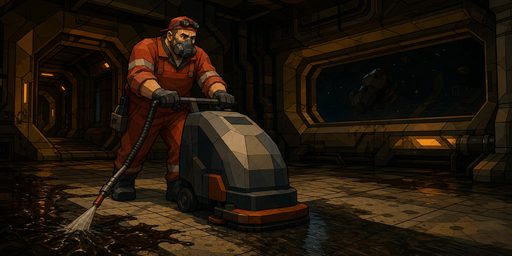
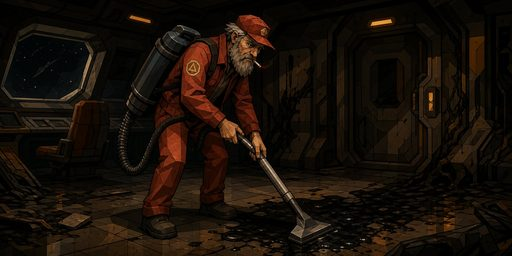
nemesis: Janitor redone — lean grey-bearded old man with backpack vacuum and cigarette (model + 10 cards)

diff --git a/nemesis/client/characters.js b/nemesis/client/characters.js
@@ -72,7 +72,7 @@ const SPECS = {
     hacker:    { legs: 'jacket', boots: 'pants', torso: 'jacket', arms: 'jacket', hands: 'pants', hood: 'hood', cowl: true, faceMask: true, cyberArms: 'pants', chestArmor: 'pants', cables: 'gear', smartGun: true, lights: 'lights', female: true, bust: 0, build: 'slim' },
     scientist: { legs: 'pants', boots: 'pants', torso: 'shirt', coat: 'coat', arms: 'coat', hands: 'skin', hair: 'shortSwept', hairZone: 'hair', goggles: 'lights', glasses: true, harness: 'shirt', tablet: true, scanner: true, beard: 'hair', wheelchair: true, build: 'slim' },
     medic:     { legs: 'pants', boots: 'pants', torso: '#5f6873', underV: true, coat: 'coat', openCoat: true, arms: 'coat', hands: 'skin', hair: 'longLoose', hairZone: 'hair', cap: 'cap', gasMask: true, syringeGun: true, redCross: 'lights', female: true, bust: 1.3, build: 'slim' },
-    janitor:   { legs: 'overall', boots: 'gloves', torso: 'overall', arms: 'overall', hands: 'gloves', hair: 'beardOnly', hairZone: 'hair', mustache: 'hair', cap: 'cap', toolBelt: true, wrench: true, patch: 'lights', build: 'stocky' },
+    janitor:   { legs: 'overall', boots: 'gloves', torso: 'overall', arms: 'overall', hands: 'gloves', hair: 'beardOnly', hairZone: 'hair', mustache: 'hair', cap: 'cap', toolBelt: true, vacuum: true, cigarette: true, patch: 'lights' },   // lean grey-bearded old man, backpack vacuum, cigarette
     ceo:       { legs: 'shirt', boots: 'coat', torso: 'shirt', robe: 'coat', arms: 'coat', hands: 'skin', hair: 'shortSwept', hairZone: 'hair', tie: 'coat', pistolR: true, robot: true, build: 'slim' },
     labrat:    { legs: 'pants', boots: 'skin', torso: 'gown', arms: 'skin', hands: 'skin', hair: 'longLoose', hairZone: 'hair', blindfold: 'bandage', implants: 'lights', gown: 'gown', qrPatch: true, barefoot: true, female: true, bust: 0, build: 'slim' },
     sentry:    { custom: 'sentry' },
@@ -268,6 +268,19 @@ export function buildCharacter(scene, charId, colors = {}) {
             else { F(FIXED.gun, cy(0.05, 0.05, 0.5, 6, g, 0.6, 0.02, 0, [0, 0, Math.PI / 2])); F(FIXED.darkSteel, bx(0.3, 0.08, 0.06, g, 0.05, 0.14, 0)); Z(LZ, bx(0.06, 0.04, 0.04, g, 0.2, 0.15, 0)); }
         }
         if (sp.pipe) { F(FIXED.steel, cy(0.05, 0.05, 1.0, 6, R, 0.42 * W, 1.5, 0.1, [0, 0, 0.15])); F(FIXED.darkSteel, bx(0.1, 0.1, 0.1, R, 0.42 * W, 1.98, 0.08)); }
+        if (sp.vacuum) {   // backpack vacuum cleaner: canister on the back, straps, hose running to a wand in the left hand
+            F(FIXED.darkSteel, cy(0.2, 0.2, 0.62, 8, R, 0, 1.78, -0.34)); F(FIXED.steel, cy(0.22, 0.22, 0.06, 8, R, 0, 2.1, -0.34)); F(FIXED.steel, cy(0.22, 0.22, 0.06, 8, R, 0, 1.46, -0.34));
+            F(FIXED.steel, bx(0.1, 0.12, 0.1, R, 0.1, 2.2, -0.34)); Z(LZ, bx(0.04, 0.04, 0.02, R, 0.1, 2.2, -0.28));   // motor cap + status light
+            for (const s of [-1, 1]) F(FIXED.strap, bx(0.06, 0.5, 0.04, R, s * 0.18 * W, 1.86, 0.17, [0.0, 0, 0]));       // shoulder straps
+            for (const [a, b] of [[[-0.12, 2.1, -0.42], [-0.42 * W, 1.9, -0.3]], [[-0.42 * W, 1.9, -0.3], [-0.46 * W, 1.4, 0.0]], [[-0.46 * W, 1.4, 0.0], [-0.4 * W, 1.16, 0.16]]]) {
+                const dx = b[0] - a[0], dy = b[1] - a[1], dz = b[2] - a[2], len = Math.hypot(dx, dy, dz);
+                const m = cy(0.05, 0.05, len, 6, R, (a[0] + b[0]) / 2, (a[1] + b[1]) / 2, (a[2] + b[2]) / 2);
+                m.rotationQuaternion = B().Quaternion.FromUnitVectorsToRef(new (B().Vector3)(0, 1, 0), new (B().Vector3)(dx / len, dy / len, dz / len), new (B().Quaternion)());
+                F(FIXED.rubber, m);
+            }
+            F(FIXED.steel, cy(0.04, 0.04, 0.8, 6, R, -0.4 * W, 0.78, 0.26, [0.25, 0, 0]));                                     // wand
+            F(FIXED.darkSteel, bx(0.3, 0.06, 0.12, R, -0.4 * W, 0.4, 0.36));                                                  // floor nozzle
+        }
         if (sp.wrench) { F(FIXED.steel, bx(0.06, 0.5, 0.04, R, -0.4 * W, 1.0, 0.1)); F(FIXED.steel, bx(0.18, 0.08, 0.05, R, -0.4 * W, 0.74, 0.1)); for (const s of [-1, 1]) F(FIXED.steel, bx(0.05, 0.1, 0.05, R, -0.4 * W + s * 0.065, 0.66, 0.1)); F(FIXED.darkSteel, bx(0.08, 0.14, 0.06, R, -0.4 * W, 1.18, 0.1)); }   // handle, head with open jaws
         if (sp.scanner) { F(FIXED.darkSteel, bx(0.1, 0.1, 0.26, R, 0.39 * W, 1.22, 0.18)); Z(LZ, cy(0.06, 0.06, 0.02, 6, R, 0.39 * W, 1.24, 0.32, [Math.PI / 2, 0, 0])); }   // hand scanner (right hand)
         if (sp.fullBeard) { Z(sp.fullBeard, bx(0.3, 0.18, 0.1, R, 0, 2.26, 0.14)); Z(sp.fullBeard, bx(0.06, 0.26, 0.26, R, 0.15, 2.36, 0.04)); Z(sp.fullBeard, bx(0.06, 0.26, 0.26, R, -0.15, 2.36, 0.04)); }

diff --git a/nemesis/client/cards.js b/nemesis/client/cards.js
@@ -24,7 +24,7 @@ const ART_DECKS = {
     hacker: ['computerSkills', 'demolition', 'interruption', 'masterPlan', 'neuralink', 'override', 'recharge', 'repairs', 'rest', 'search'],
     scientist: ['computerSkills', 'connection', 'demolition', 'duckAndCover', 'interruption', 'intranet', 'repairs', 'rest', 'riskAssessment', 'search'],
     medic: ['computerSkills', 'demolition', 'fieldSurgery', 'firstAid', 'interruption', 'neurotoxicGas', 'repairs', 'rest', 'search', 'synthesizedDrugs'],
-    janitor: ['cleanUp', 'demolition', 'duckAndCover', 'emergencyKey', 'interruption', 'maintenancePlan', 'repairs', 'rest', 'search'],
+    janitor: ['cleanUp', 'demolition', 'duckAndCover', 'emergencyKey', 'interruption', 'itShouldWork', 'maintenancePlan', 'repairs', 'rest', 'search'],
 };
 function cardArt(cardId) {
     const [owner, key] = cardId.split('#')[0].split('.');
